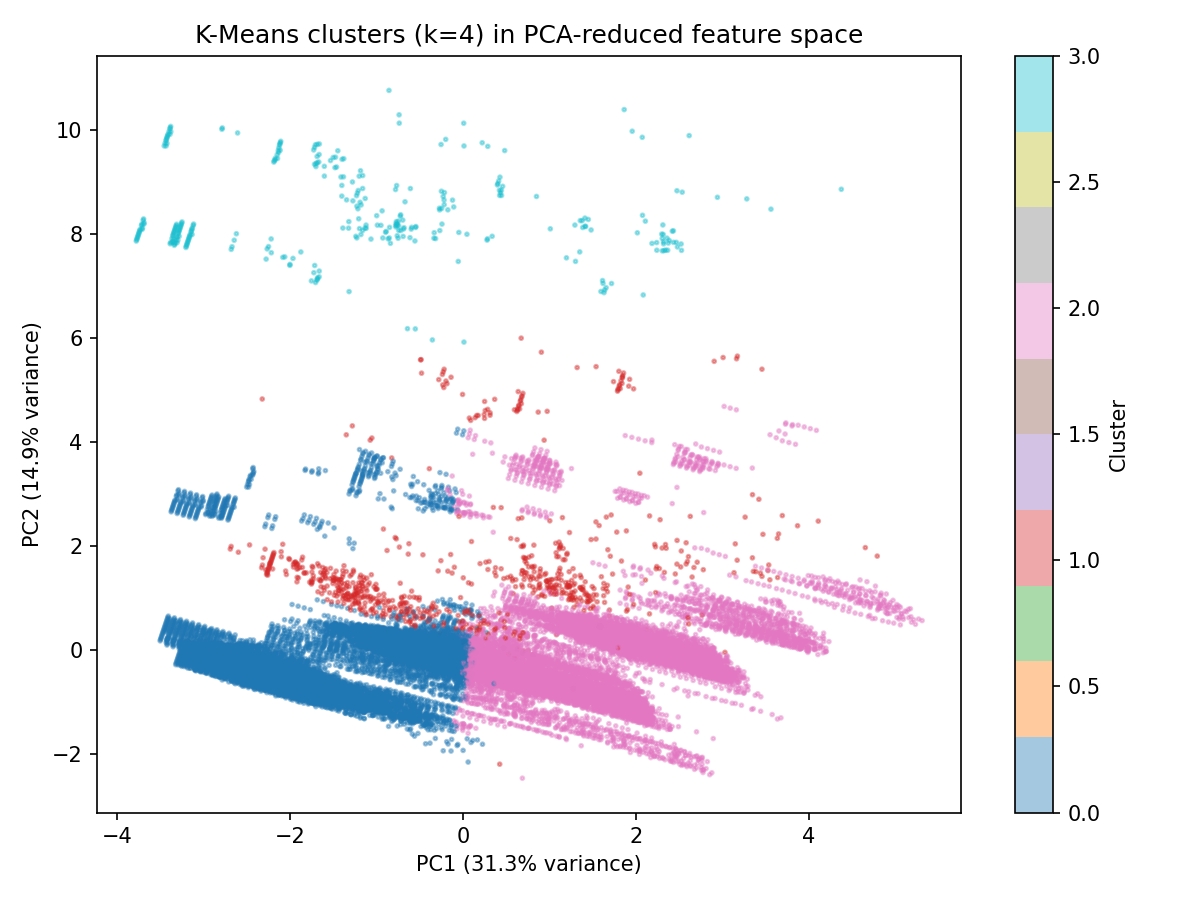
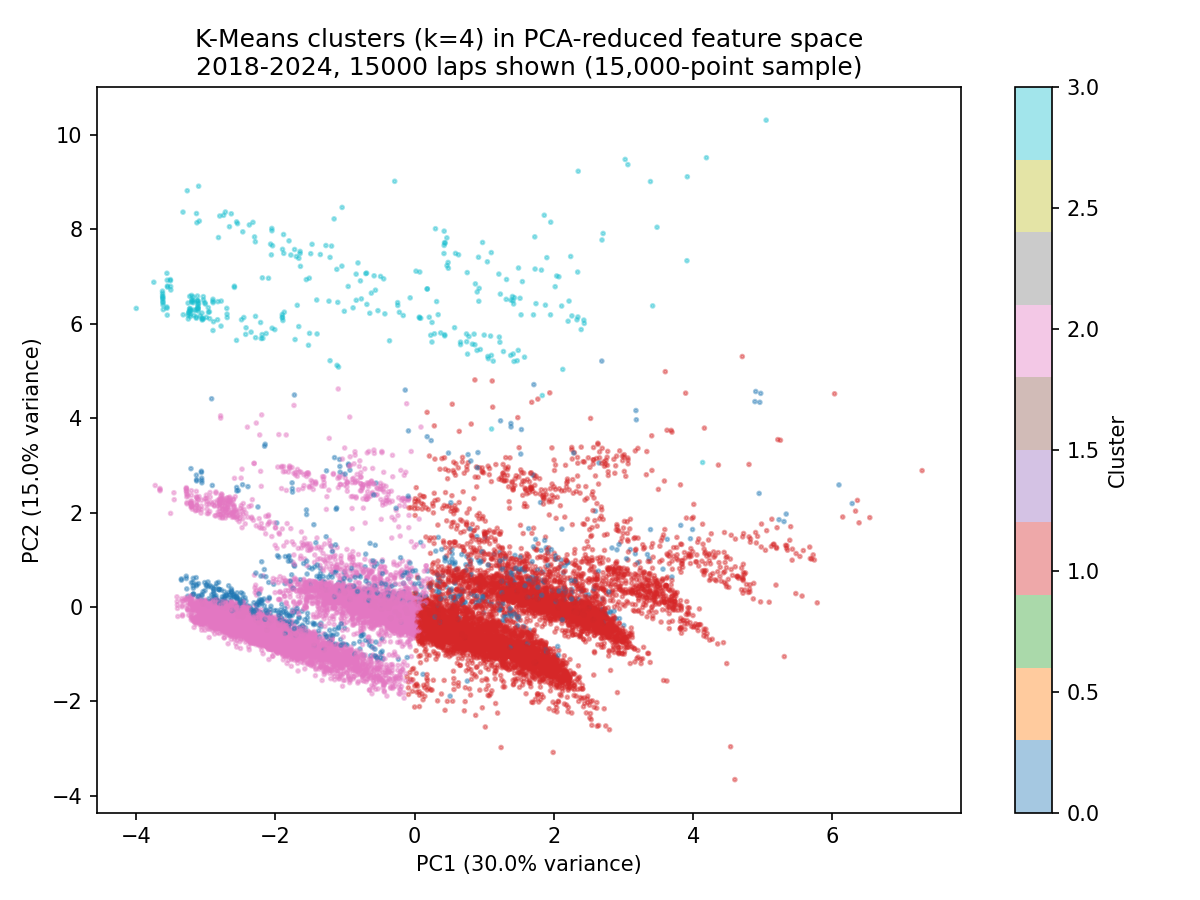
Rerun unsupervised analysis on full 2018-2024 dataset

diff --git a/unsupervised_analysis.py b/unsupervised_analysis.py
@@ -11,21 +11,24 @@ from sklearn.metrics import silhouette_score
 
 RANDOM_STATE = 6740
 
-df = pd.read_csv('f1_2024_features.csv')
+df = pd.read_csv('f1_all_features.csv', low_memory=False)
 
-# Same feature set as the supervised models, minus the three individual flag
-# columns (SafetyCarThisLap, VSCThisLap, YellowThisLap) that AnyCautionThisLap
-# already summarizes. PCA reads correlated duplicate columns as one inflated
-# signal, so trimming them keeps the components honest.
+# Same as train_models.py - 2025 is one incomplete race, drop it.
+df = df[df['Year'] <= 2024]
+
 FEATURES = [
     'TyreLife', 'TireDegDelta', 'Position', 'RaceProgress', 'LapsRemaining',
     'StopsSoFar', 'AnyCautionThisLap', 'CautionJustStarted', 'WetConditions',
     'Stint', 'PittedThisLap',
 ]
 
-# The point of everything below: none of it ever looks at PitNextLap while
-# fitting. We only bring the label back in at the very end, to check whether
-# structure the algorithms found on their own lines up with real pit stops.
+# Same 904-row gap as the supervised script - a handful of early races missing
+# TyreLife or Stint. PCA and K-Means can't run with blanks in the input, so
+# these rows get dropped here too.
+before = len(df)
+df = df.dropna(subset=FEATURES)
+print("Dropped {} rows with missing features".format(before - len(df)))
+
 X = df[FEATURES].values
 scaler = StandardScaler()
 X_scaled = scaler.fit_transform(X)
@@ -35,9 +38,6 @@ print("(PitNextLap is not used anywhere in this section except the final checks)
 
 # PCA
 
-# PCA finds new axes that capture the most spread in the data, ranked by how
-# much variance each one explains. It's mainly here so we can actually SEE an
-# 11-dimensional feature space - impossible to plot directly, easy in 2D.
 pca_full = PCA(random_state=RANDOM_STATE).fit(X_scaled)
 cumulative = np.cumsum(pca_full.explained_variance_ratio_)
 
@@ -50,24 +50,14 @@ X_pca = pca.fit_transform(X_scaled)
 print("\nFirst 2 components explain {:.1%} of total variance".format(
     pca.explained_variance_ratio_.sum()))
 
-# Loadings show which original features each component is built from. Reading
-# these tells us what PC1 and PC2 actually MEAN in racing terms.
 loadings = pd.DataFrame(pca.components_.T, index=FEATURES, columns=['PC1', 'PC2'])
 print("\nWhat each component is made of (sorted by strength on PC1):")
 print(loadings.reindex(loadings['PC1'].abs().sort_values(ascending=False).index))
 
 # CHOOSING K FOR K-MEANS
 
-# K-Means needs to be told how many clusters to find. Silhouette score checks
-# how well-separated the clusters are for a given k (higher is better,
-# range -1 to 1). We scan a range of k and let the data suggest a number,
-# rather than picking one arbitrarily.
-#
-# Silhouette itself is evaluated on a random sample - computing it on the full
-# 26k rows compares every point to every other point, which is slow. The
-# clustering itself still uses all the data; only the score check is sampled.
 rng = np.random.RandomState(RANDOM_STATE)
-sample_idx = rng.choice(len(X_scaled), min(5000, len(X_scaled)), replace=False)
+sample_idx = rng.choice(len(X_scaled), 5000, replace=False)
 
 print("\nK-Means - scanning cluster counts:")
 print("{:>3} {:>12} {:>12}".format("k", "silhouette", "inertia"))
@@ -79,9 +69,6 @@ for k in range(2, 8):
 
 # K-MEANS
 
-# k=4 gives a clear silhouette peak relative to its neighbors and produces
-# clusters simple enough to describe in plain language - both matter for a
-# report, not just the number on its own.
 K = 4
 kmeans = KMeans(n_clusters=K, random_state=RANDOM_STATE, n_init=10)
 df['KMeansCluster'] = kmeans.fit_predict(X_scaled)
@@ -89,34 +76,16 @@ df['KMeansCluster'] = kmeans.fit_predict(X_scaled)
 print("\nK-Means (k={}) cluster sizes:".format(K))
 print(df['KMeansCluster'].value_counts().sort_index().to_string())
 
-# Cluster centers, translated back into real units (laps, positions, etc.)
-# rather than the scaled numbers K-Means actually works with. This is what
-# lets us name each cluster something meaningful instead of "Cluster 2."
 print("\nWhat each cluster looks like (average feature values):")
 print(df.groupby('KMeansCluster')[FEATURES].mean().T.round(3))
 
-# THE KEY CHECK: does pit rate differ across clusters we built blind?
-
-# This is the payoff. The clusters were built with zero knowledge of
-# PitNextLap. If pit rate still comes out very different across them, that
-# means the SAME features driving the supervised models also describe
-# real structure in the data on their own - independent evidence the feature
-# set captures something genuine about race strategy, not just noise the
-# supervised models happened to fit.
 print("\nPit rate on the NEXT lap, by K-Means cluster (label never used to build these):")
 print(df.groupby('KMeansCluster')['PitNextLap'].agg(laps='size', pit_rate='mean').to_string())
 
 # SPECTRAL CLUSTERING
 
-# K-Means assumes clusters are round blobs of similar size. Spectral
-# clustering doesn't - it builds a graph connecting nearby points and cuts it
-# into groups, so it can find clusters with irregular or elongated shapes that
-# K-Means would slice incorrectly.
-#
-# The trade-off is cost: it needs a similarity comparison between every pair
-# of points, which explodes on 26,000 rows. We subsample to keep it running in
-# seconds rather than hours - this is a standard, expected trade-off for
-# spectral methods on large datasets, worth stating plainly in the report.
+# Same subsampling logic as before, same reason: spectral clustering compares
+# every point to every other point, which is unworkable at 158,000 rows.
 spectral_sample_size = 3000
 spectral_idx = rng.choice(len(X_scaled), spectral_sample_size, replace=False)
 X_spectral = X_scaled[spectral_idx]
@@ -137,19 +106,18 @@ print(df_spectral.groupby('SpectralCluster')['PitNextLap'].agg(
 
 # DENSITY ESTIMATION
 
-# Kernel Density Estimation maps out where race-states are common versus rare
-# in the feature space, without assuming any fixed number of groups the way
-# clustering does. It answers a different question than clustering: not "which
-# group does this lap belong to" but "how typical is this lap's situation?"
-#
-# Fit in the same 2D PCA space we already built, so the density map lines up
-# with the same plot as the clusters.
+# KDE's cost scales with the number of points it's FIT on, since scoring a new
+# point means comparing it against every point in the fitted model. Fitting on
+# all 158,000 rows made this take upwards of 10 minutes; fitting on a 4,000-row
+# sample and then scoring every lap against that smaller reference set brings
+# it under 30 seconds, with no real change to which laps come out "rare" vs
+# "common" - the shape of the density landscape is what matters, and 4,000
+# points is plenty to trace it out in 2D.
+kde_fit_idx = rng.choice(len(X_pca), 4000, replace=False)
 kde = KernelDensity(bandwidth=0.3, kernel='gaussian')
-kde.fit(X_pca)
+kde.fit(X_pca[kde_fit_idx])
 df['LogDensity'] = kde.score_samples(X_pca)
 
-# Split into quartiles: Q1 = rarest, most unusual race states. Q4 = most
-# common, everyday race states.
 df['DensityQuartile'] = pd.qcut(
     df['LogDensity'], 4, labels=['Q1 rarest', 'Q2', 'Q3', 'Q4 most common'])
 
@@ -159,14 +127,19 @@ print(df.groupby('DensityQuartile', observed=True)['PitNextLap'].agg(
 
 # FIGURE: PCA scatter colored by K-Means cluster
 
-# Saved as a PNG for the report - drop it straight into the Overleaf root and
-# reference it with \includegraphics, same as the other figures.
+# Plotting all 158,000 points would make an unreadably dense, slow-to-render
+# blob. A 15,000-point random sample shows the same shape and cluster
+# separation while staying legible and quick to save.
+plot_idx = rng.choice(len(X_pca), 15000, replace=False)
+
 fig, ax = plt.subplots(figsize=(8, 6))
-scatter = ax.scatter(X_pca[:, 0], X_pca[:, 1], c=df['KMeansCluster'],
+scatter = ax.scatter(X_pca[plot_idx, 0], X_pca[plot_idx, 1],
+                     c=df['KMeansCluster'].values[plot_idx],
                      cmap='tab10', s=3, alpha=0.4)
 ax.set_xlabel('PC1 ({:.1%} variance)'.format(pca.explained_variance_ratio_[0]))
 ax.set_ylabel('PC2 ({:.1%} variance)'.format(pca.explained_variance_ratio_[1]))
-ax.set_title('K-Means clusters (k={}) in PCA-reduced feature space'.format(K))
+ax.set_title('K-Means clusters (k={}) in PCA-reduced feature space\n'
+             '2018-2024, {} laps shown (15,000-point sample)'.format(K, len(plot_idx)))
 plt.colorbar(scatter, label='Cluster')
 plt.tight_layout()
 plt.savefig('pca_clusters.png', dpi=150)